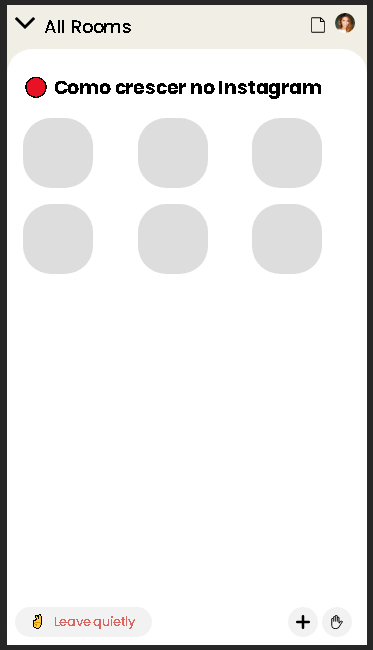
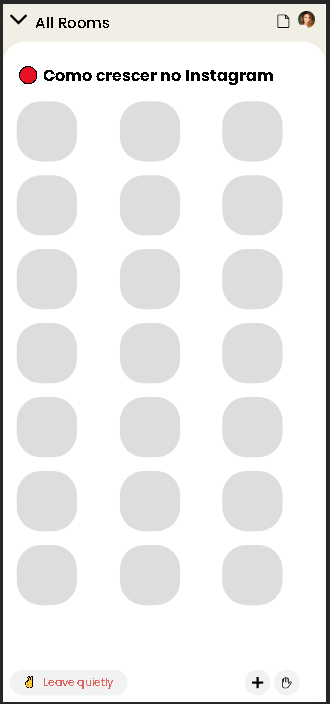
Atualização da demo

diff --git a/index.html b/index.html
@@ -24,12 +24,27 @@
     <main>
       <h3 class="titulo"> 🔴 Como crescer no Instagram</h3>
       <div class="grid-container">
-        <p>ABC</p>
-        <p>DEF</p>
-        <p>GHI</p>
-        <p>JKL</p>
-        <p>MNO</p>
-        <p>PQR</p>     
+        <p></p>
+        <p></p>
+        <p></p>
+        <p></p>
+        <p></p>
+        <p></p>
+        <p></p>
+        <p></p>
+        <p></p>
+        <p></p>
+        <p></p>
+        <p></p>
+        <p></p>
+        <p></p>
+        <p></p>
+        <p></p>
+        <p></p>
+        <p></p>
+        <p></p>
+        <p></p>
+        <p></p>                
       </div>     
     </main>    
     <footer class="footer">
